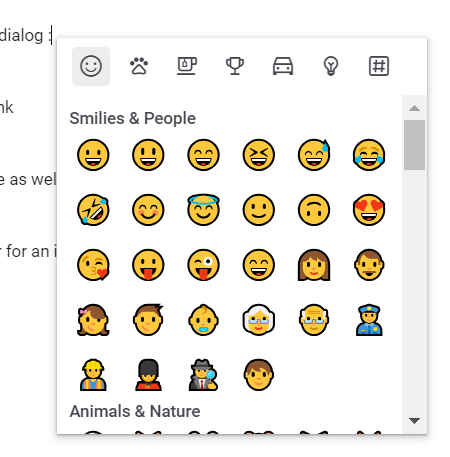
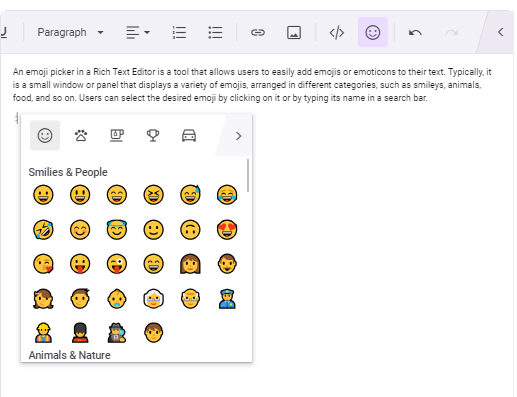
documentation(834649): Emoji picker module in rich text editor Documentation

diff --git a/ej2-javascript/rich-text-editor/ej2-javascript-rich-text-editor-toc.html b/ej2-javascript/rich-text-editor/ej2-javascript-rich-text-editor-toc.html
@@ -14,7 +14,7 @@ RichTextEditor
 <li><a href="/ej2-javascript/rich-text-editor/video">Video</a></li>
 <li><a href="/ej2-javascript/rich-text-editor/link">Link</a></li>
 <li><a href="/ej2-javascript/rich-text-editor/table">Table</a></li>
-<li><a href="/ej2-javascript/rich-text-editor/emoji-picker">Emoji picker</a></li>
+<li><a href="/ej2-javascript/rich-text-editor/emoji-picker">Emoji Picker</a></li>
 <li><a href="/ej2-javascript/rich-text-editor/markdown">Markdown</a></li>
 <li><a href="/ej2-javascript/rich-text-editor/file-browser">File Browser</a></li>
 <li><a href="/ej2-javascript/rich-text-editor/iframe">IFrame Rendering</a></li>

diff --git a/ej2-javascript/code-snippet/rich-text-editor/emoji-picker-cs2/index.ts b/ej2-javascript/code-snippet/rich-text-editor/emoji-picker-cs2/index.ts
@@ -10,3 +10,9 @@ let emojiPickerRTE: RichTextEditor = new RichTextEditor({
 });
 
 emojiPickerRTE.appendTo('#emojipickerRTE');
+
+emojiPickerRTE.addEventListener('keydown', (event: KeyboardEvent) => {
+    if (event.keyCode === 191) {
+        emojiPickerRTE.showEmojiPicker('center',100);
+    };
+  });

diff --git a/ej2-javascript/code-snippet/rich-text-editor/emoji-picker-cs2/index.js b/ej2-javascript/code-snippet/rich-text-editor/emoji-picker-cs2/index.js
@@ -10,3 +10,8 @@ var defaultRTE = new ej.richtexteditor.RichTextEditor({
     },
 });
 defaultRTE.appendTo('#emojiPickerRTE');
+emojiPickerRTE.addEventListener('keydown', function(event) {
+    if (event.keyCode === 191) {
+        emojiPickerRTE.showEmojiPicker('center',100);
+    };
+  });

diff --git a/ej2-javascript/code-snippet/rich-text-editor/emoji-picker-cs2/index.css b/ej2-javascript/code-snippet/rich-text-editor/emoji-picker-cs2/index.css
@@ -1,0 +1,12 @@
+#container {
+    visibility: hidden;
+}
+
+#loader {
+  color: #008cff;
+  height: 40px;
+  left: 45%;
+  position: absolute;
+  top: 45%;
+  width: 30%;
+}

diff --git a/ej2-javascript/rich-text-editor/ts/emoji-picker.md b/ej2-javascript/rich-text-editor/ts/emoji-picker.md
@@ -1,27 +1,30 @@
 ---
 layout: post
-title: Emoji picker in ##Platform_Name## Rich text editor control | Syncfusion
-description: Learn here all about Emoji picker in Syncfusion ##Platform_Name## Rich text editor control of Syncfusion Essential JS 2 and more.
+title: Emoji Picker in ##Platform_Name## RichTextEditor | Syncfusion
+description: Learn here all about Emoji Picker in Syncfusion ##Platform_Name## RichTextEditor control of Syncfusion Essential JS 2 and more.
 platform: ej2-javascript
-control: Emoji picker
+control: Emoji Picker
 publishingplatform: ##Platform_Name##
 documentation: ug
 domainurl: ##DomainURL##
 ---
 
-# Emoji picker in ##Platform_Name## Rich text editor control
+# Emoji Picker in ##Platform_Name## RichTextEditor control
 
-An Emoji picker is a tool that allows users to easily add emojis or emoticons to their text. Typically, it is a small window or panel that displays a variety of emojis, arranged in different categories, such as smileys, animals, food, and so on. Users can select the desired emoji by clicking on it or by typing its name in a search bar.
+An emoji picker is a tool that allows users to easily add emojis or emoticons to their text. Typically, it is a small window or panel that displays a variety of emojis, arranged in different categories, such as smileys, animals, food, and so on. Users can select the desired emoji by clicking on it or by typing its name in a search bar.
 
 ## Enabling the toolbar option and custom emojis.
 
 You can add the `EmojiPicker` tool to the toolbar of the Rich Text Editor by utilizing the `toolbarSettings` [items](../api/rich-text-editor/toolbarSettings/#items) property.
 
-The [emojiPickerSettings](../api/rich-text-editor/emojiPickerSettings/) property allows for easy customization of emojis in the Rich Text Editor.
+The [emojiPickerSettings](../api/rich-text-editor/emojiPickerSettings/) property enables simple customization of the default emojis in the Rich Text Editor.
 
 ```ts
 
 let defaultRTE: RichTextEditor = new RichTextEditor({
+    toolbarSettings: {
+        items: ['EmojiPicker']
+    },
     emojiPickerSettings: {
         iconsSet: [{name: 'Smilies & People', code: '1F600', iconCss: 'e-emoji', 
         icons: [{ code: '1F600', desc: 'Grinning face' },
@@ -94,7 +97,7 @@ In addition to using the [iconCss](../api/rich-text-editor/emojiPickerSettings/i
 
 In the emoji picker popup, there are multiple emojis available. If you want to find a particular emoji, you can filter them by typing the name of the emoji in the input box.However, if you prefer not to have an input box for filtering, you can simply set the [showSearchBox](../api/rich-text-editor/emojiPickerSettings/showSearchBox) property to false.
 
-The following code example shows how to add the Emoji picker tool in the Rich Text Editor.
+The following code example shows how to add the emoji picker tool in the Rich Text Editor.
 
 {% tabs %}
 {% highlight ts tabtitle="index.ts" %}
@@ -107,15 +110,13 @@ The following code example shows how to add the Emoji picker tool in the Rich Te
           
 {% previewsample "page.domainurl/code-snippet/rich-text-editor/emoji-picker-cs1" %}
 
-> Rich Text Editor features are segregated into individual feature-wise modules. To use emoji picker, inject the Emoji picker module using the `RichTextEditor.Inject(EmojiPicker)`.
+> Rich Text Editor features are segregated into individual feature-wise modules. To use emoji picker, inject the Emoji Picker module using the `RichTextEditor.Inject(EmojiPicker)`.
 
 ## Using the shortcut key to open the emoji picker
 
-In the Rich Text Editor, you can enable the instant display of the emoji picker by pressing the colon (:) key when typing a word prefix in an editor. This functionality allows you to easily access the emoji picker by simply typing a word and using a colon.
+You can enable the instant display of the emoji picker by pressing the colon (:) key when typing a word prefix in an editor. You don't need to worry about filtering the particular emoji without using a text box. Simply filter the emoji by typing a colon after the name of the emoji, and it will filter the emojis accordingly.
 
-If you open the emoji picker popup by typing a word prefix followed by a colon (":"), you don't need to worry about filtering the particular emoji without using a text box. You can simply filter the emoji by typing a colon after the name of the emoji, and it will filter the emojis accordingly.
-
-![JavaScript Rich Text Editor Emoji picker shortcut](./images/javaScript-richtexteditor-emoji-picker-shorcut.png)
+![JavaScript Rich Text Editor Emoji Picker shortcut](./images/javaScript-richtexteditor-emoji-picker-shorcut.png)
 
 ## Navigating and selecting emojis using the keyboard
 
@@ -130,13 +131,22 @@ The emoji picker popup offers keyboard navigation options, allowing you to move 
 
 ## Opening the emoji picker in a custom position
 
-We have provided another possibility to open the emoji picker popup by using the `showEmojiPicker()` method.
-
-If you call the `showEmojiPicker()` method, it automatically adjusts its position based on the cursor's location.
-
-Alternatively, you can modify the position of the popup by calling the `showEmojiPicker()` method and specifying the `x` and `y` parameters.
+You can display the emoji picker anywhere within the editor by using the `showEmojiPicker` public method. By default, it opens at the current cursor position within the editor. If you wish to customize the position of the popup by calling the `showEmojiPicker()` method and specifying the `x` and `y` parameters.
 
 `x` - Left position.
 `y` - Top position.
 
-This allows you to have precise control over where the emoji picker appears on the screen.
+You can customize the horizontal and vertical position by specifying a value as 'center', 'auto', or a pixel-based value to achieve the desired placement. This allows you to have precise control over where the emoji picker appears on the screen.
+
+When you type '/' in the editor, the popup will open at the specified position as shown in the code examples below.
+
+{% tabs %}
+{% highlight ts tabtitle="index.ts" %}
+{% include code-snippet/rich-text-editor/emoji-picker-cs2/index.ts %}
+{% endhighlight %}
+{% highlight html tabtitle="index.html" %}
+{% include code-snippet/rich-text-editor/emoji-picker-cs2/index.html %}
+{% endhighlight %}
+{% endtabs %}
+          
+{% previewsample "page.domainurl/code-snippet/rich-text-editor/emoji-picker-cs2" %}
